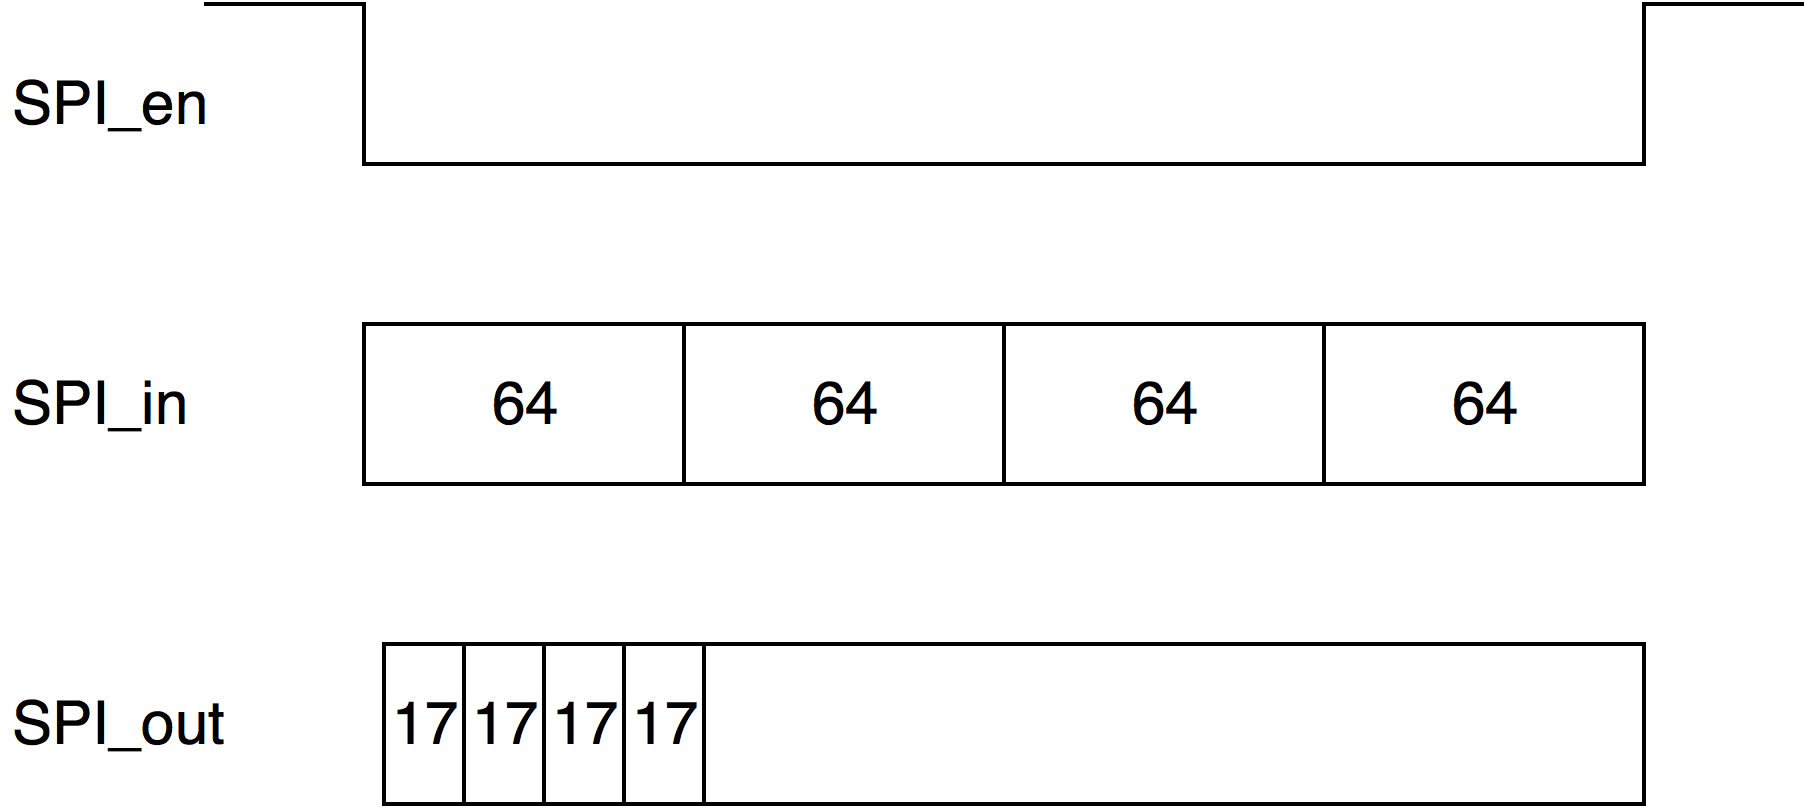
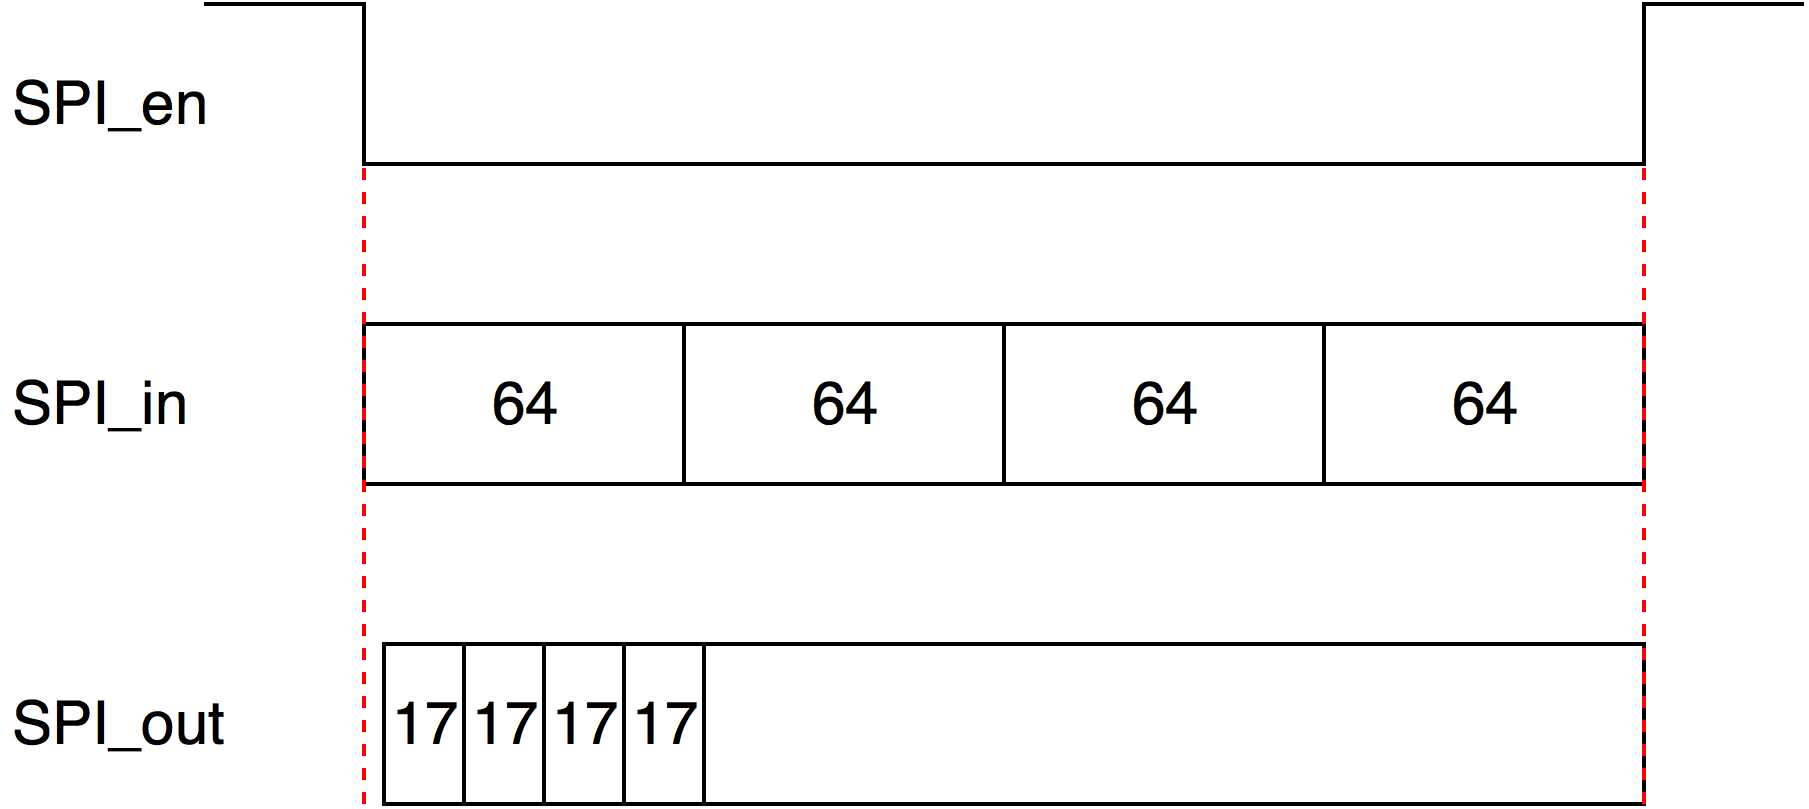
Updated SPI interface.

diff --git a/dokumentation/final_report/tex/spi_interface.tex b/dokumentation/final_report/tex/spi_interface.tex
@@ -12,23 +12,25 @@ This section describes the protocol used to communicate with the chip.
 \end{figure}
 
 As an attempt to save time on implementation, the group decided to deviate from the standard spi protocol and create an specialized protocol for the chip.\\
-The total amount of data that should be sent, during each active period of SPI_enable, is 4 x 4 16 bit words to the chip and four 17 bit words from the chip. This is illustrated in Fig. \ref{spi_data}.
+The total amount of data that should be sent, during each active period of the SPI enable, is 4x4 16 bit words to the chip and four 17 bit words from the chip. This is illustrated in Fig. \ref{spi_data}.
+
+\begin{figure}[H]
+\centering
+\captionsetup{justification=centering}
+\includegraphics[scale=0.35]{../figures/spi_data.png}
+\caption{SPI timing diagram}
+\label{spi_data}
+\end{figure}
+
 The chip receive and send data with the most significant bit first. The order of the bits is illustrated Fig. \ref{spi_int}. \\
 
 \begin{figure}[H]
 \centering
 \captionsetup{justification=centering}
 \includegraphics[scale=0.35]{../figures/spi_interface.png}
-\caption{SPI timing diagram}
+\caption{Shift register cell}
 \label{spi_int}
-\end{figure}
+\end{figure} 
 
 Data is both written and read by the chip on the rising edge of the the spi clock. This means that the circuitry communicating with the chip has to read and write on the falling edge of the clock. The first input data should be available on the first rising edge after SPI_en goes low, and the first bit of the output will be available on the first falling edge after spi enable goes low. This can also be seen in Fig. \ref{spi_int}
 
-\begin{figure}[H]
-\centering
-\captionsetup{justification=centering}
-\includegraphics[scale=0.35]{../figures/MUX_DFF.png}
-\caption{Shift register cell}
-\label{mux_dff}
-\end{figure}
